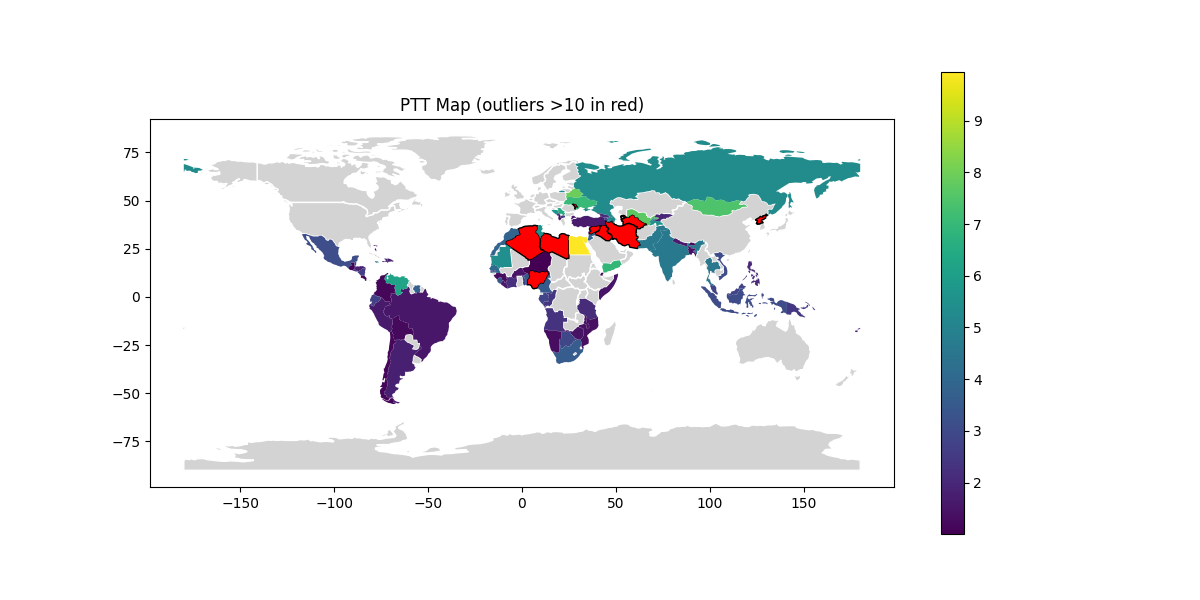
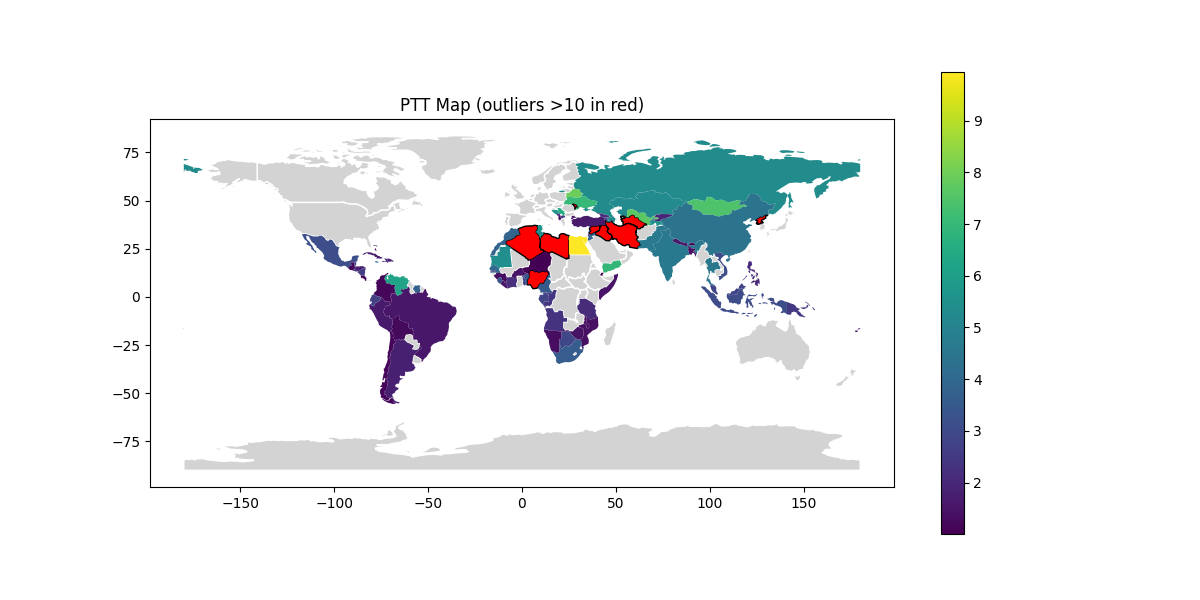
ptt plots

Changed region(s): [[0.4933, 0.3, 0.6475, 0.45]]

diff --git a/src/plotting.py b/src/plotting.py
@@ -40,7 +40,9 @@ with open("data/High_income.json") as f:
 
 def plot(from_codes, to_codes, to_codes_name):
     non_from_to = [el for el in to_codes if el not in from_codes]
-    non_from_to_wo_russia = [el for el in non_from_to if el != "RUS"]
+    non_from_to_wo_russia_and_china = [
+        el for el in non_from_to if el != "RUS" and el != "CHN"
+    ]
 
     ptt_df = (
         pd.Series(
@@ -48,29 +50,28 @@ def plot(from_codes, to_codes, to_codes_name):
             index=non_from_to,
         )
         .rename("ptt")
-        .rename(index={"SUN": "SDN"})
+        .rename(index={"SUD": "SDN"})
+        .rename()
         .sort_values()
         .reset_index()
-        .rename(columns={"index": "SOV_A3"})
-        .rename(index={"SUD": "SDN"})
+        .rename(columns={"index": "ISO_A3"})
     )
     ptt_df = ptt_df[ptt_df["ptt"] > 1]
 
     co2_shares_df = (
-        co2_shares(eora, from_codes, non_from_to_wo_russia)
+        co2_shares(eora, from_codes, non_from_to_wo_russia_and_china)
         .sum()
-        .rename(index={"SUN": "SDN"})
         .div(co2_shares(eora, from_codes, non_from_to).sum().sum())
         .groupby(level=[0])
         .sum()
         .rename("co2_share")
         .reset_index()
-        .rename(columns={"region": "SOV_A3"})
+        .rename(columns={"region": "ISO_A3"})
     )
 
     # Merge with world GeoDataFrame
-    world_merged = world.merge(ptt_df, on="SOV_A3", how="left").merge(
-        co2_shares_df, on="SOV_A3", how="left"
+    world_merged = world.merge(ptt_df, on="ISO_A3", how="left").merge(
+        co2_shares_df, on="ISO_A3", how="left"
     )
 
     # Identify outliers
@@ -96,6 +97,7 @@ def plot(from_codes, to_codes, to_codes_name):
     # Plot outliers in red
     plt.title("PTT Map (outliers >10 in red)")
     plt.savefig(plot_dir + "/ptt_map" + to_codes_name + ".png")
+    #
 
     # Plot CO2 shares map (keep original style)
     fig, ax = plt.subplots(figsize=(12, 6))
@@ -106,8 +108,13 @@ def plot(from_codes, to_codes, to_codes_name):
         ax=ax,
         missing_kwds={"color": "lightgray"},
     )
+    plt.title("CO² shares")
     plt.savefig(plot_dir + "/co2_shares_map" + to_codes_name + ".png")
 
 
 fc = south_codes + ["CHN"] + ["IND"]
 plot(eu_codes, fc, "gs")
+
+world[world["SOV_A3"] == "SDN"]
+china_rows = world[world["NAME"].str.contains("Sudan", case=False, na=False)]
+print(china_rows[["NAME", "SOV_A3", "ISO_A3", "ADM0_A3"]])
